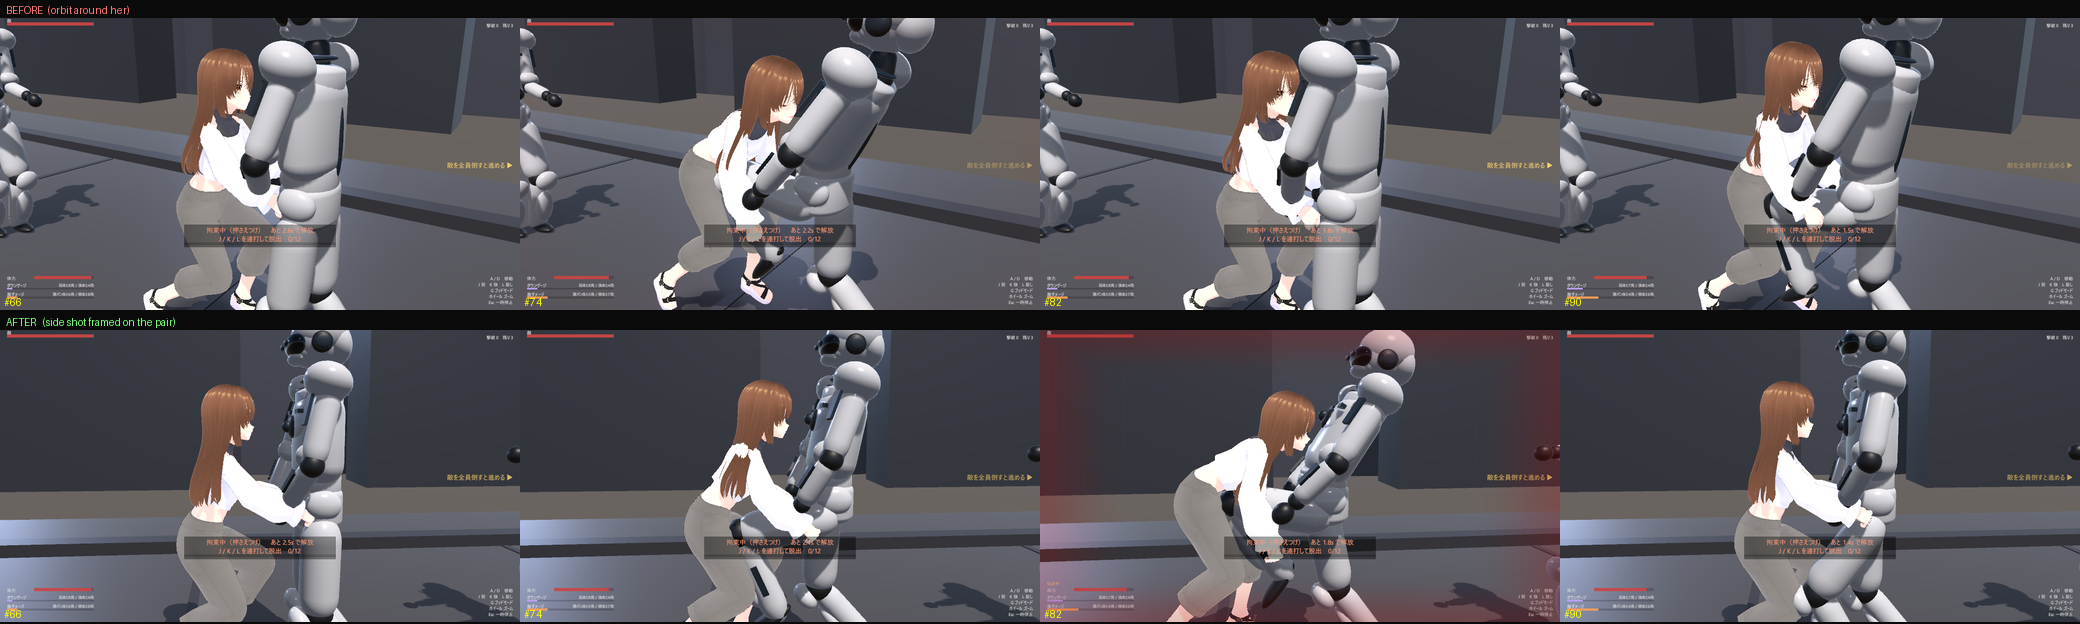
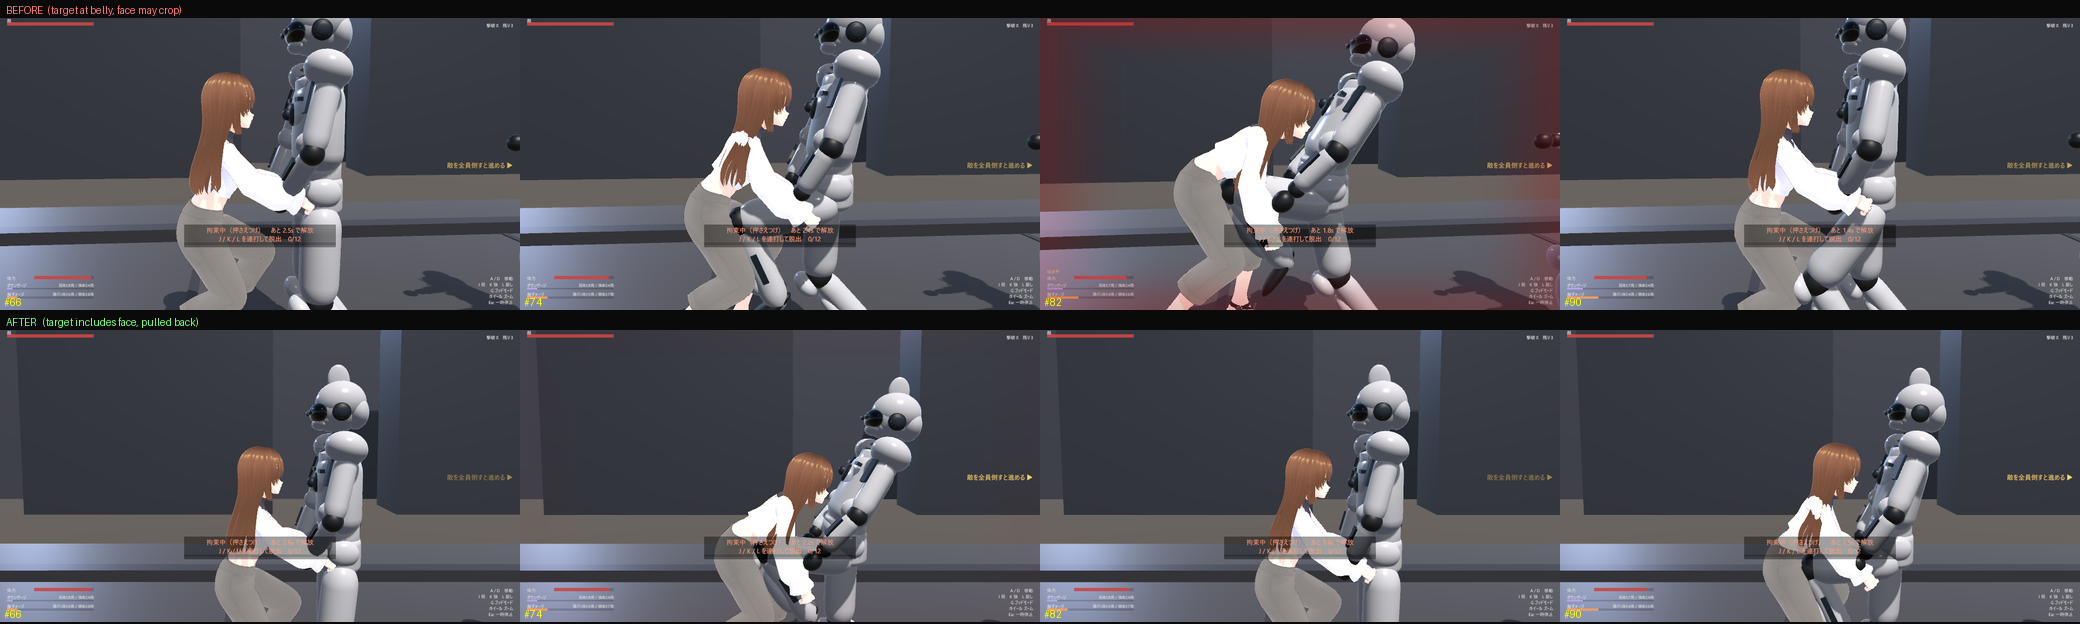
docs: カメラはプレイヤーの顔が映ることを前提にする（方針を追加）
今後の制作・変更の既定ルールとして AGENTS.md を新設し、演出の原則を明記する。

- カメラはプレイヤーの顔が画面に入っていることを既定の要件にする
  （顔が切れる・敵で隠れる・前髪で読めない・HUDが重なる、は不可）
- 顔と一緒に見せたい部位がある場合、画角・距離・高さ・注視点で両立させる
- 彼女を中心に回すと正面の敵が遮蔽物になる場合は、二人の関係軸の横から撮る
- 見た目の変更はプレイヤービルドで撮って確かめる

あわせて正面拘束の膝ショットをこの基準に合わせる（注視点に顔を含め、2.10m へ引く）。
PinGrappleTests + WallPinRuntimeTests 42 件通過。

diff --git a/MioPrototype/Assets/RyonaGame/Runtime/AI/PinHoldPose.cs b/MioPrototype/Assets/RyonaGame/Runtime/AI/PinHoldPose.cs
@@ -249,6 +249,10 @@ namespace Ryona.Game
                         Vector3 her = player.position + Vector3.up * 0.95f;
                         Vector3 him = transform.position + Vector3.up * 0.95f;
                         Vector3 mid = Vector3.Lerp(her, him, 0.45f);
+                        // 顔も同じ画に入れる（カメラは彼女の顔が映ることを前提にする）。
+                        // 腹と膝だけに寄ると顔が上で切れる。
+                        Vector3 herFace = player.position + Vector3.up * 1.42f;
+                        Vector3 lookAt = Vector3.Lerp(herFace, mid, 0.45f);
                         Vector3 axis = Vector3.ProjectOnPlane(him - her, Vector3.up);
                         if (axis.sqrMagnitude < 1e-4f)
                             axis = Vector3.ProjectOnPlane(player.forward, Vector3.up);
@@ -262,10 +266,10 @@ namespace Ryona.Game
                         if (Vector3.Dot(side, camFlat) < 0f)
                             side = -side;
 
-                        Vector3 shot = mid + side * 1.85f + Vector3.up * 0.22f - axis * 0.15f;
+                        Vector3 shot = mid + side * 2.10f + Vector3.up * 0.42f - axis * 0.15f;
                         _camera.RequestCinematicShot(
                             Vector3.Lerp(_normalShotPos, shot, k),
-                            Vector3.Lerp(_normalShotTarget, mid, k));
+                            Vector3.Lerp(_normalShotTarget, lookAt, k));
                     }
                     else
                     {

diff --git a/AGENTS.md b/AGENTS.md
@@ -1,0 +1,41 @@
+# AGENTS.md
+
+このリポジトリで作業する人（と AI）が前提にする、演出と検証の方針。
+
+## 演出の原則
+
+### カメラは「彼女（プレイヤー）の顔が映る」ことを前提にする
+
+- カメラワークを設計・変更するときは、**プレイヤーの顔が画面に入っていること**を既定の要件にする。
+  顔が切れる・隠れる画は、演出として成立していないものとして扱う。
+- 具体的に避けるもの：
+  - 顔が画面外へ切れる（フレームアウト）
+  - 手前の敵の体・腕で顔が覆われる
+  - 前髪が顔に落ちて表情が読めない
+  - HUD の帯が顔や、その場面で見せたい部位に重なる
+- 顔と一緒に見せたいもの（腹・膝・拳など）がある場合、**画角・距離・高さ・注視点で両立させる**。
+  片方だけを寄る変更はしない。
+- 「彼女を中心にカメラを回す」と、正面に立つ敵が遮蔽物になる。その場合は
+  **二人の関係軸に対して横から撮る**（`WallSplitCamera` / `PinHoldPose` の膝ショットと同じ方式）。
+
+### 変更したら撮って確かめる
+
+- 見た目の変更は、**プレイヤービルドで連番キャプチャを撮って確認する**。
+  数値やテストが通っても、画で読めなければ未達。
+- 例：`-grappletest` / `-pintest` / `-nowallpin` ＋ `-pinburst=<dir>\pin.png -pinburstframes=200 -pinburstinterval=0.05`
+- 比較は「変更前後を同じフレーム番号で並べる」と判断しやすい。
+
+### 対象のモーションを取り違えない
+
+- 壁押さえつけ（`IsWallPin`）とレーンの正面拘束（`GrappleKind.Pin`）は**別物**。
+  レーン上では `WallPinSites.Find` に距離制限が無いため、壁の幅に入っていると必ず壁版になる。
+  正面拘束を見たいときは `-nowallpin` を使う。
+- 変更前に、ログで**そのモーションが実際に走っているか**を確認する
+  （例：`[Pin] knee` / `[HeldPunch] combo` / `[WallGang]`）。
+
+## テスト
+
+- EditMode は `Ryona.Tests`（`Ryona.Core` のみ参照）、PlayMode は `Ryona.PlayTests`（`Ryona.Game` を参照）。
+- まとめて回すときは `MioPrototype/tools/run_tests.py`（コンパイル確認込み）。
+- 既存テストには**設計意図が書かれている**ことがある（例：顔パンの首振りは 40° 以上必要）。
+  値を変えて落ちたときは、まずテストの意図を読む。
